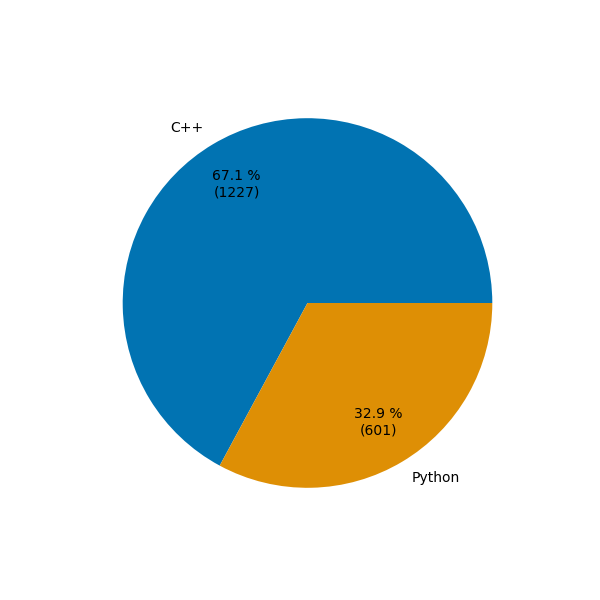
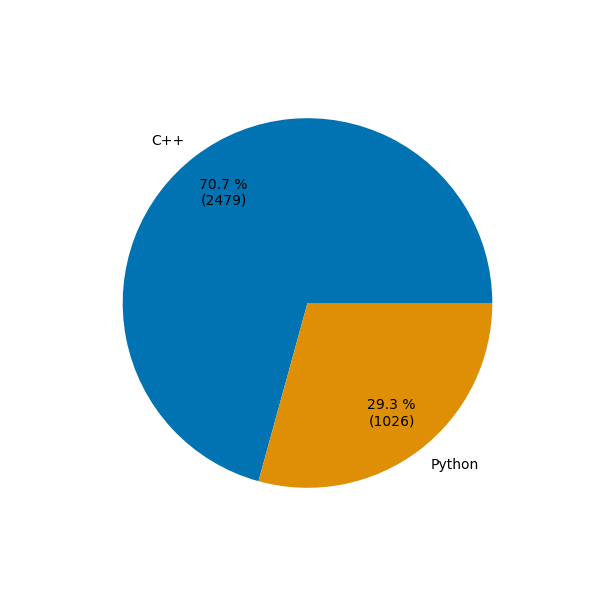
updated counter & regenerated the plots

diff --git a/counter.py b/counter.py
@@ -38,14 +38,14 @@ for year in os.listdir():
         for day in sorted(os.listdir(year)):
             len_dict = {}
             for program in os.listdir(os.path.join(year, day)):
-                if program.endswith('png'):
-                    continue
                 path = os.path.join(year, day, program)
+                if program.endswith('png') or os.path.isdir(path):
+                    continue
                 name = lang_dict[path.split('.')[-1]]
                 with open(path, 'r') as file:
                     length = len(file.read())
                 len_dict[name] = length
-            del len_dict['Text']
+            if 'Text' in len_dict: del len_dict['Text']
             len_dict = {k: v for k, v in sorted(
                 len_dict.items(), key=lambda item: item[1], reverse=True)
                 }
